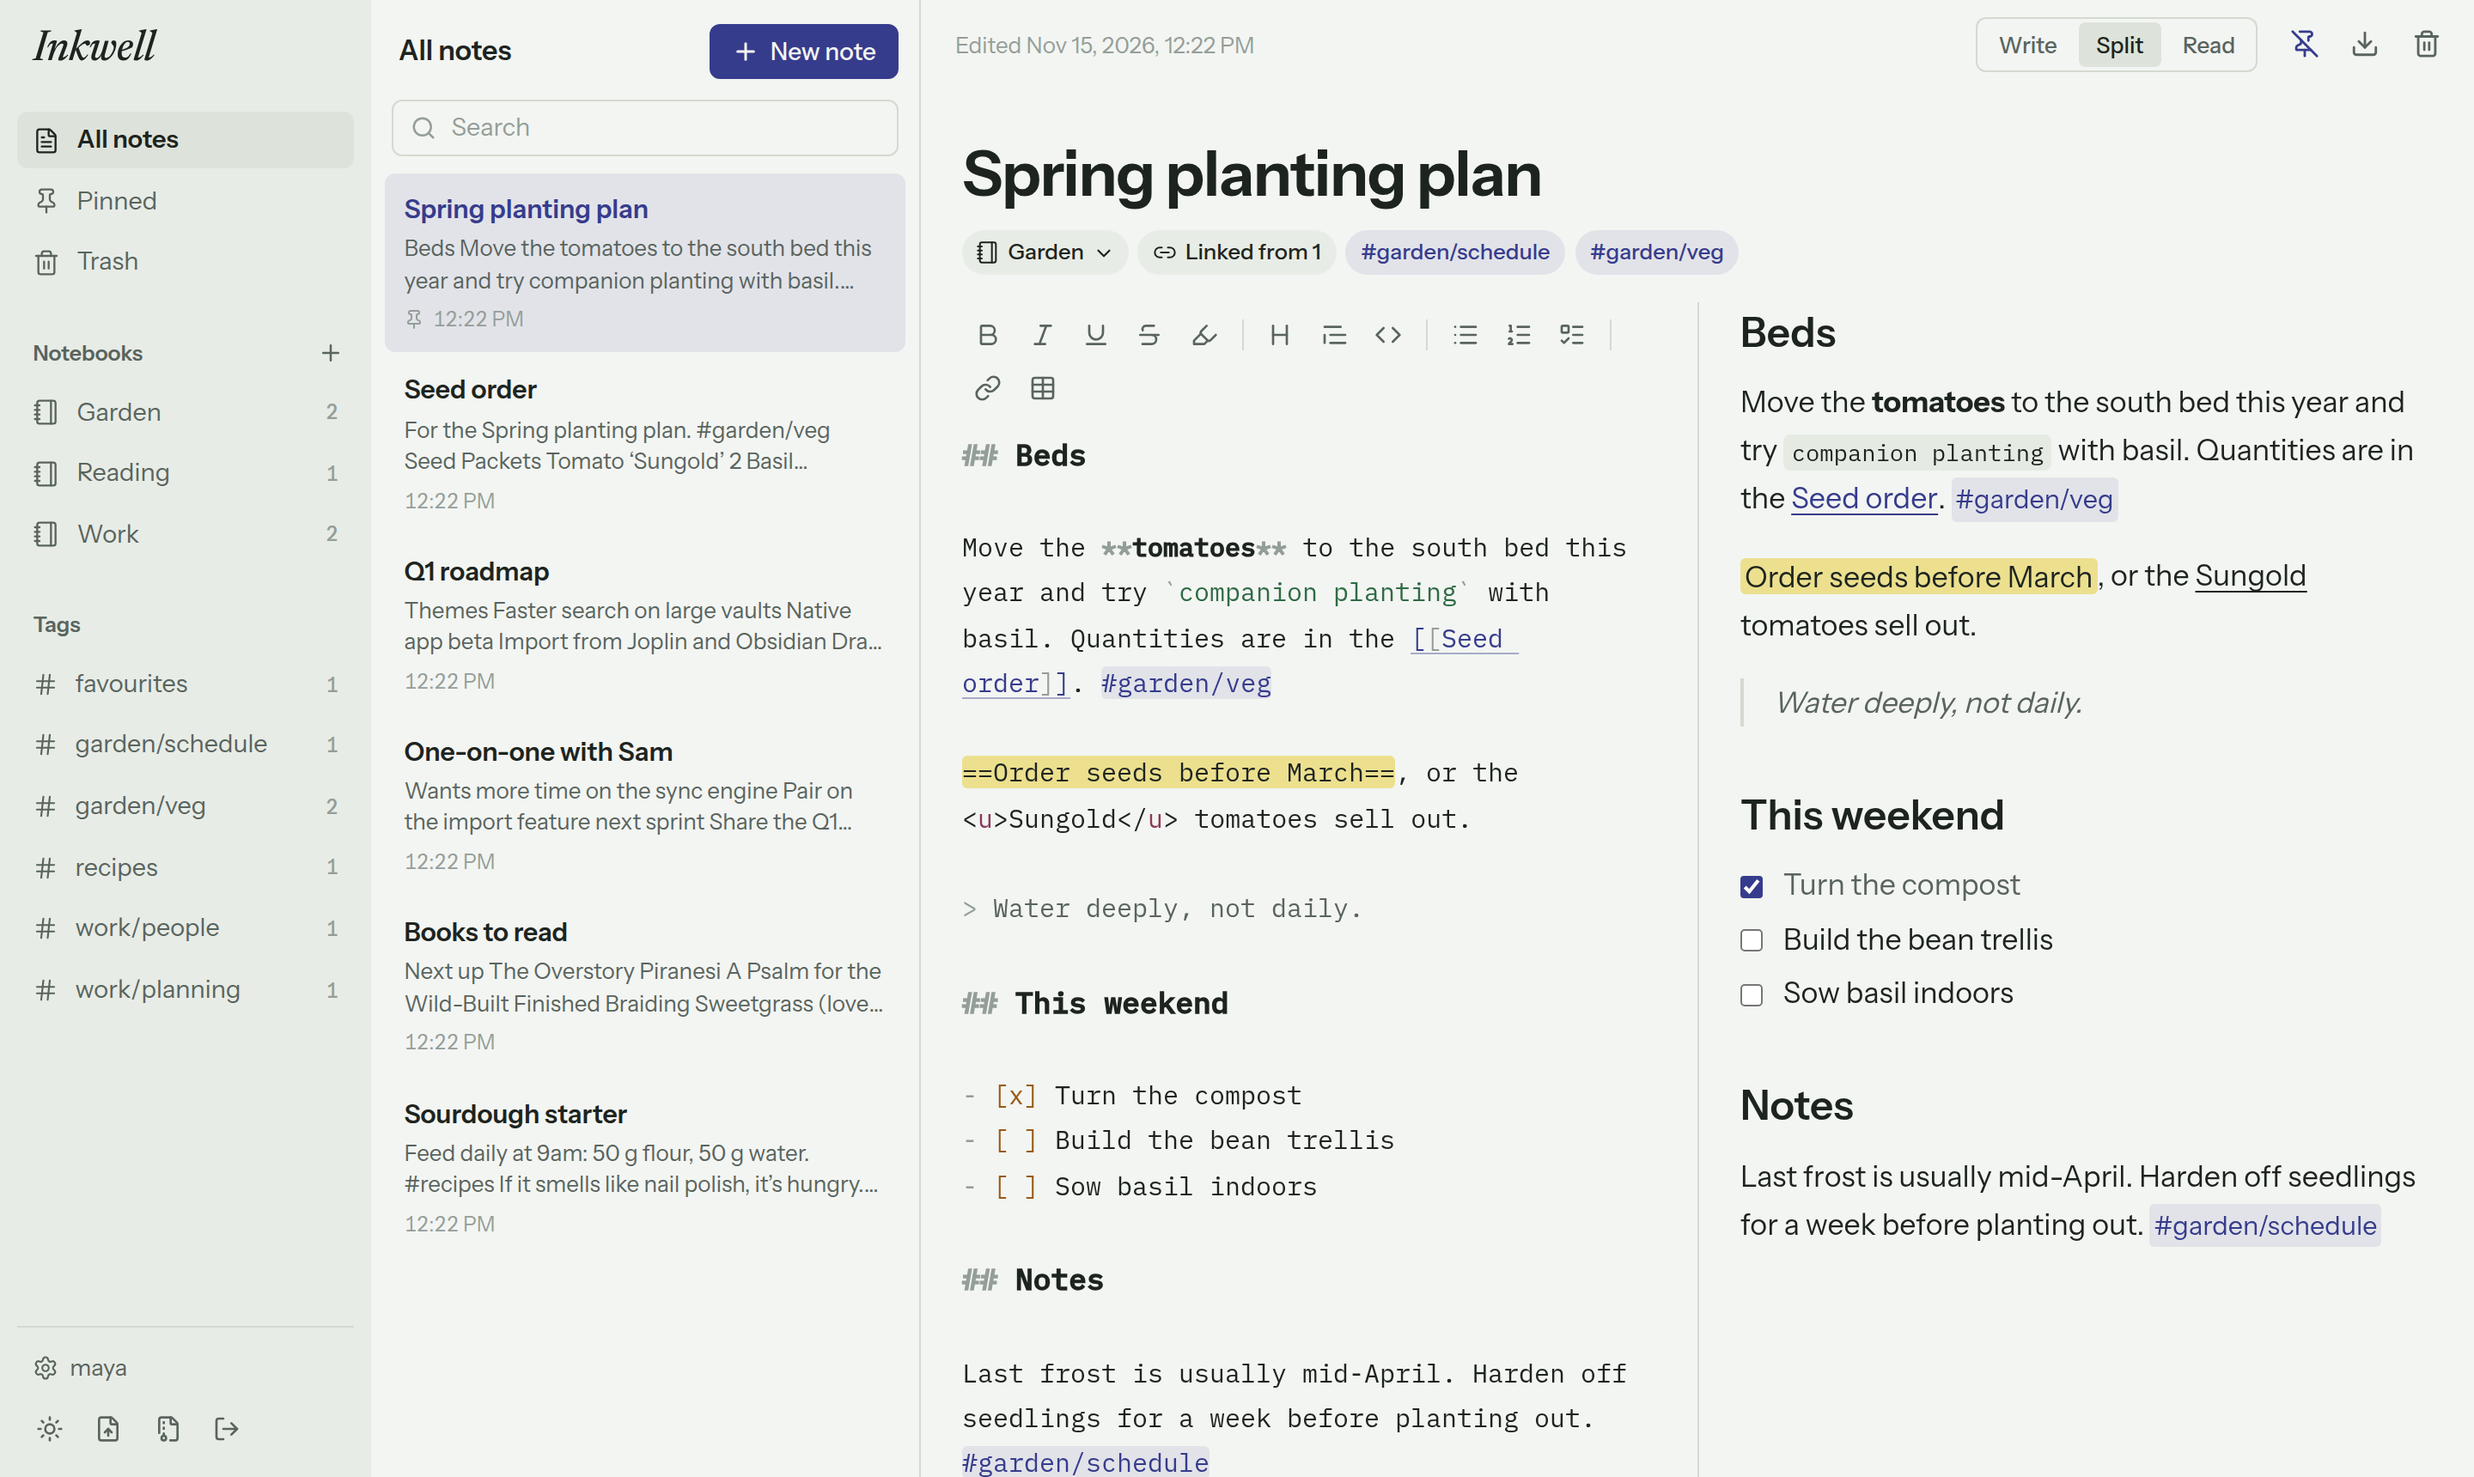
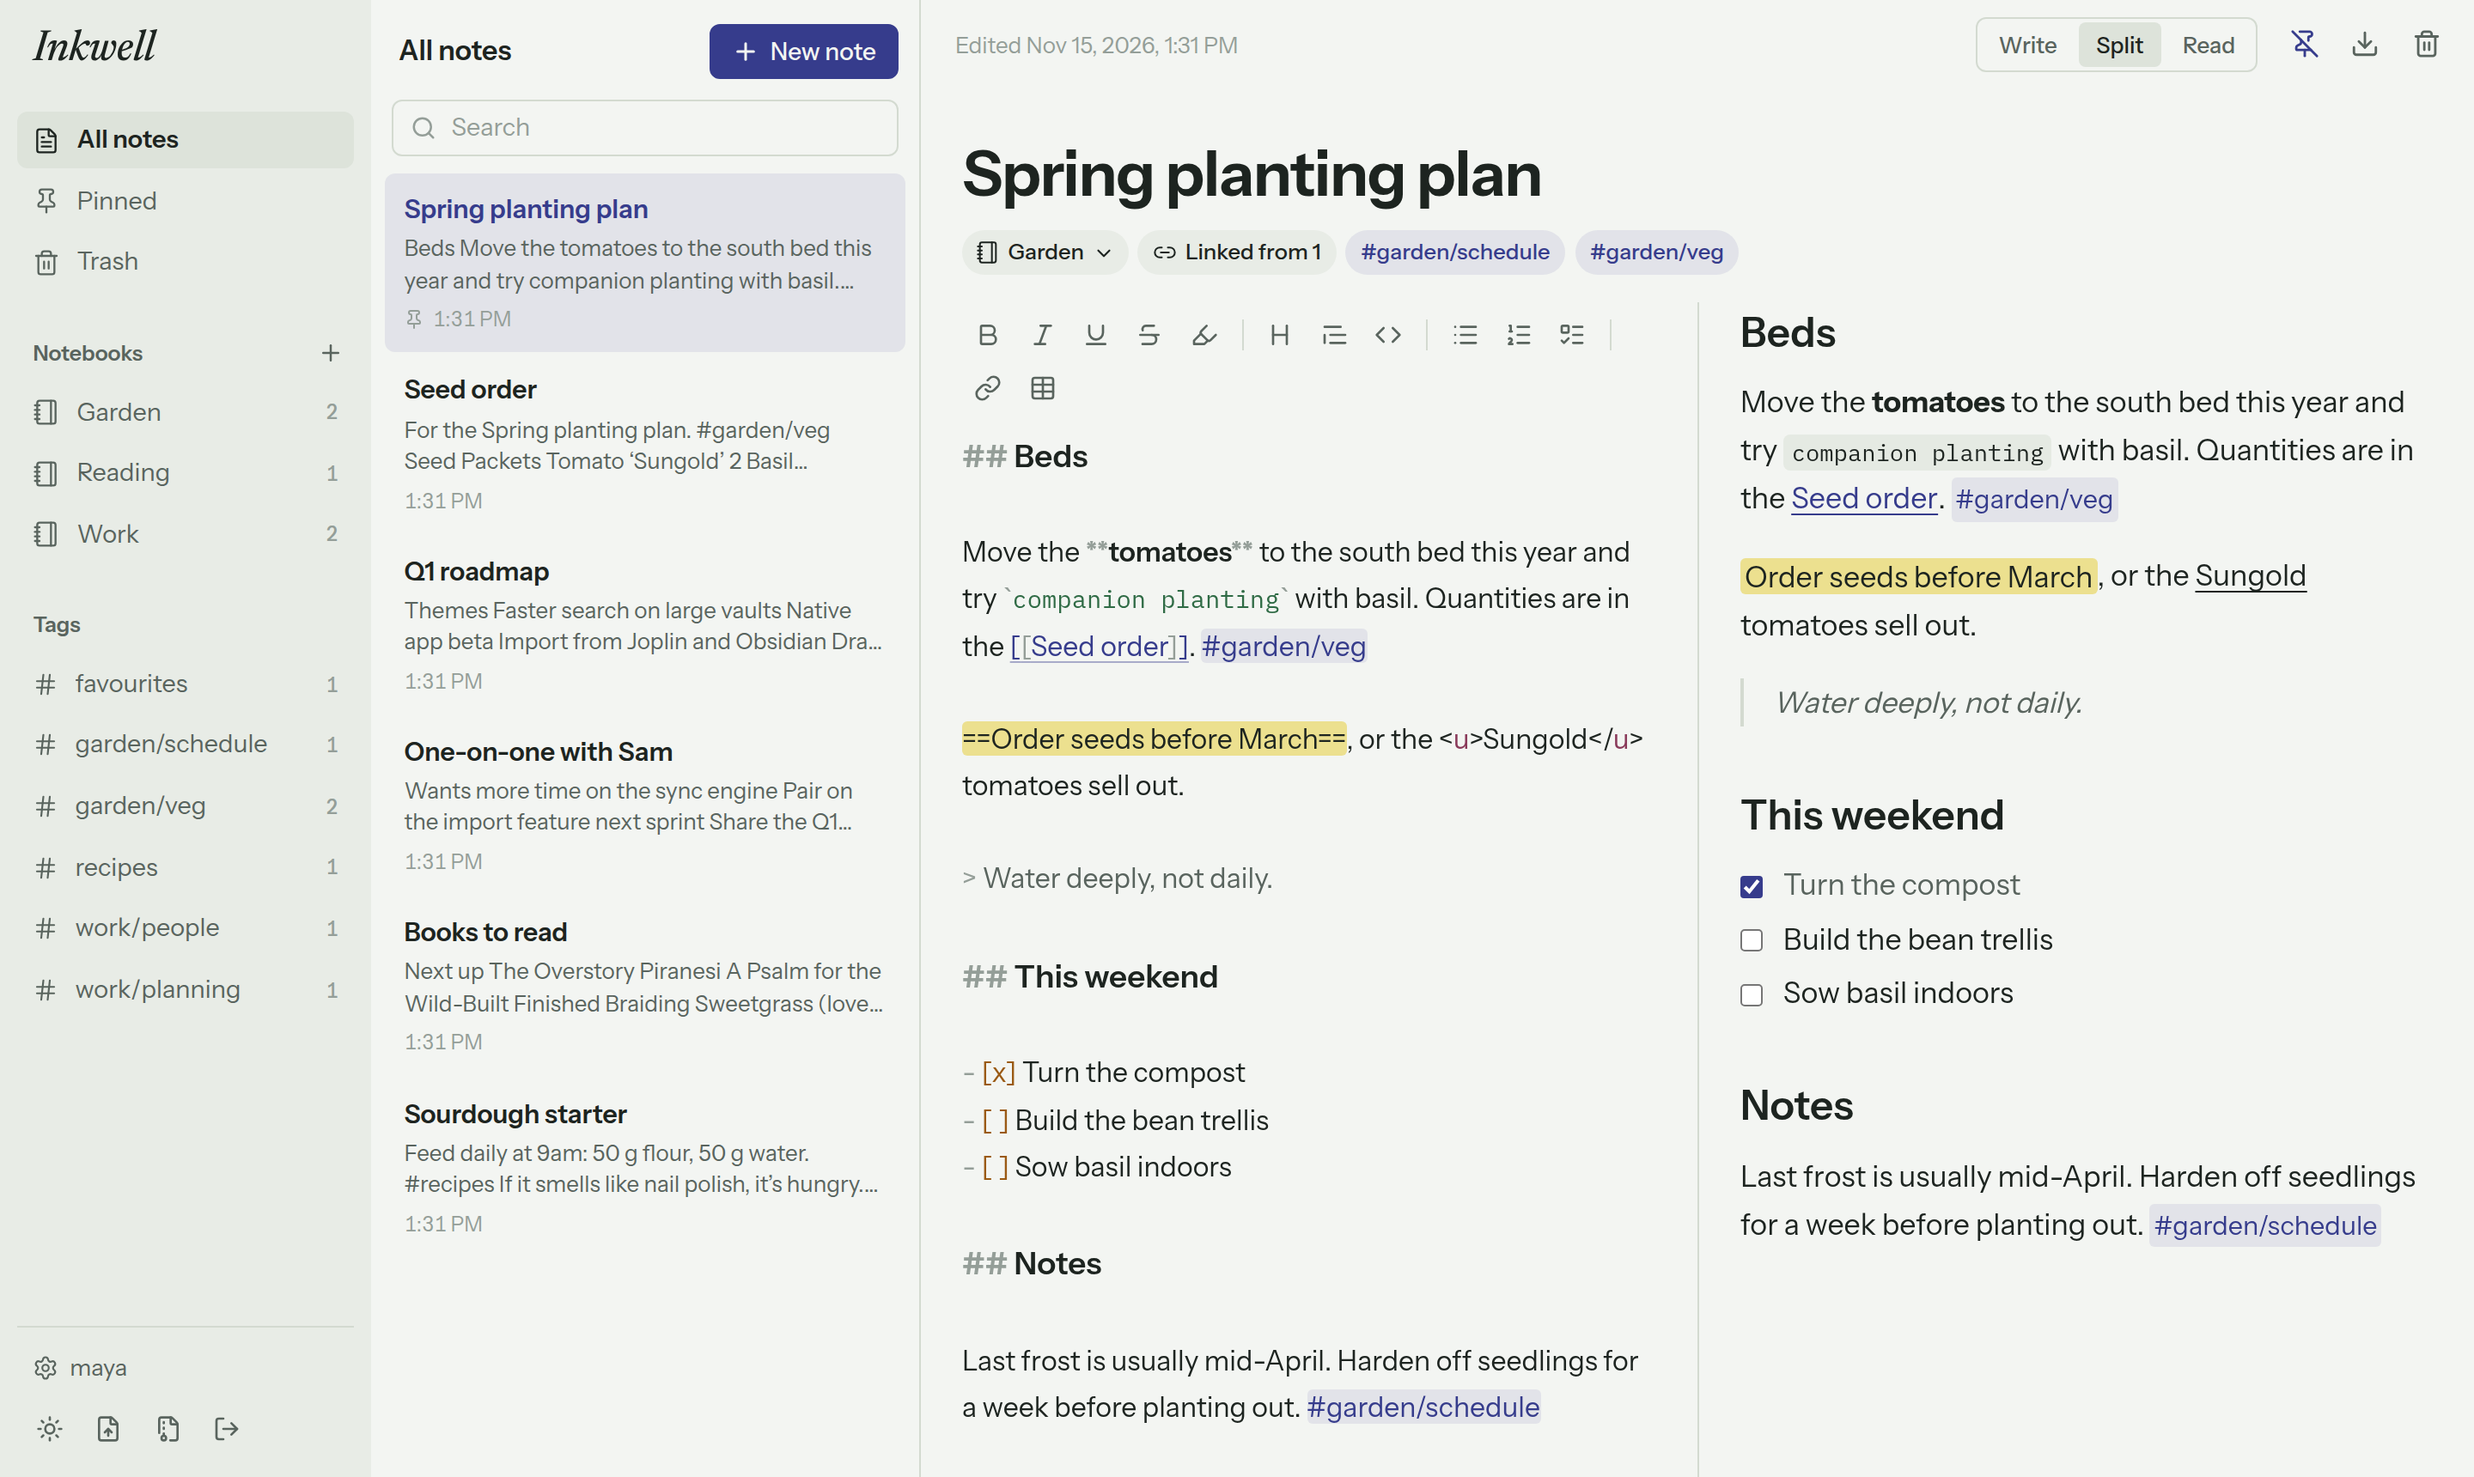
Use the note's sans serif in the editor too
The Write view now uses Instrument Sans like the title and rendered
note, so writing looks like the finished note. Inline code and fenced
or indented code blocks keep a monospace font so code still reads as
code and lines up. Screenshots refreshed.

diff --git a/src/lib/components/Editor.svelte b/src/lib/components/Editor.svelte
@@ -1,6 +1,6 @@
 <script lang="ts">
 	import { onMount } from 'svelte';
-	import { Annotation, EditorState } from '@codemirror/state';
+	import { Annotation, EditorState, RangeSetBuilder } from '@codemirror/state';
 	import {
 		Decoration,
 		EditorView,
@@ -66,7 +66,7 @@
 		{ tag: t.link, color: 'var(--accent)' },
 		{ tag: t.url, color: 'var(--muted)' },
 		{ tag: t.quote, color: 'var(--muted)' },
-		{ tag: t.monospace, color: 'var(--syn-string)' },
+		{ tag: t.monospace, color: 'var(--syn-string)', fontFamily: 'var(--font-mono)', fontSize: '0.9em' },
 		{ tag: [t.processingInstruction, t.meta, t.contentSeparator], color: 'var(--faint)' },
 		{ tag: t.keyword, color: 'var(--syn-keyword)' },
 		{ tag: [t.string, t.special(t.string), t.regexp], color: 'var(--syn-string)' },
@@ -127,6 +127,44 @@
 			}
 			update(update: ViewUpdate) {
 				this.decorations = wikiLinkMatcher.updateDeco(update, this.decorations);
+			}
+		},
+		{ decorations: (plugin) => plugin.decorations }
+	);
+
+	// The editor writes in the note's sans serif; code blocks keep a monospace font so they line up.
+	const codeLine = Decoration.line({ class: 'cm-code-line' });
+	function codeLines(view: EditorView): DecorationSet {
+		const builder = new RangeSetBuilder<Decoration>();
+		let last = -1;
+		for (const { from, to } of view.visibleRanges) {
+			syntaxTree(view.state).iterate({
+				from,
+				to,
+				enter: (node) => {
+					if (node.name !== 'FencedCode' && node.name !== 'CodeBlock') return;
+					for (let pos = node.from; pos <= node.to; ) {
+						const line = view.state.doc.lineAt(pos);
+						if (line.from > last) builder.add(line.from, line.from, codeLine);
+						last = Math.max(last, line.from);
+						pos = line.to + 1;
+					}
+					return false;
+				}
+			});
+		}
+		return builder.finish();
+	}
+	const codeBlockFont = ViewPlugin.fromClass(
+		class {
+			decorations: DecorationSet;
+			constructor(view: EditorView) {
+				this.decorations = codeLines(view);
+			}
+			update(update: ViewUpdate) {
+				if (update.docChanged || update.viewportChanged || syntaxTree(update.startState) !== syntaxTree(update.state)) {
+					this.decorations = codeLines(update.view);
+				}
 			}
 		},
 		{ decorations: (plugin) => plugin.decorations }
@@ -220,11 +258,12 @@
 		'.cm-completionIcon': { display: 'none' },
 		'.cm-completionMatchedText': { textDecoration: 'none', fontWeight: '600' },
 		'.cm-tag': { color: 'var(--accent)', backgroundColor: 'var(--accent-soft)', borderRadius: '3px' },
-		'&': { height: '100%', color: 'var(--ink)', backgroundColor: 'transparent', fontSize: '15px' },
+		'&': { height: '100%', color: 'var(--ink)', backgroundColor: 'transparent', fontSize: '16px' },
+		'.cm-code-line': { fontFamily: 'var(--font-mono)', fontSize: '0.9em' },
 		'&.cm-focused': { outline: 'none' },
 		'.cm-scroller': {
-			fontFamily: 'var(--font-mono)',
-			lineHeight: '1.75',
+			fontFamily: 'var(--font-ui)',
+			lineHeight: '1.7',
 			paddingInline: 'var(--gutter)'
 		},
 		'.cm-content': { padding: '0.25rem 0 40vh', caretColor: 'var(--accent)' },
@@ -272,6 +311,7 @@
 					tagHighlighter,
 					wikiLinkHighlighter,
 					inlineStyles,
+					codeBlockFont,
 					followLinkOnModClick,
 					autocompletion({ override: [linkCompletions], icons: false }),
 					keymap.of([...formatKeymap, ...closeBracketsKeymap, ...defaultKeymap, ...searchKeymap, ...historyKeymap, indentWithTab]),
